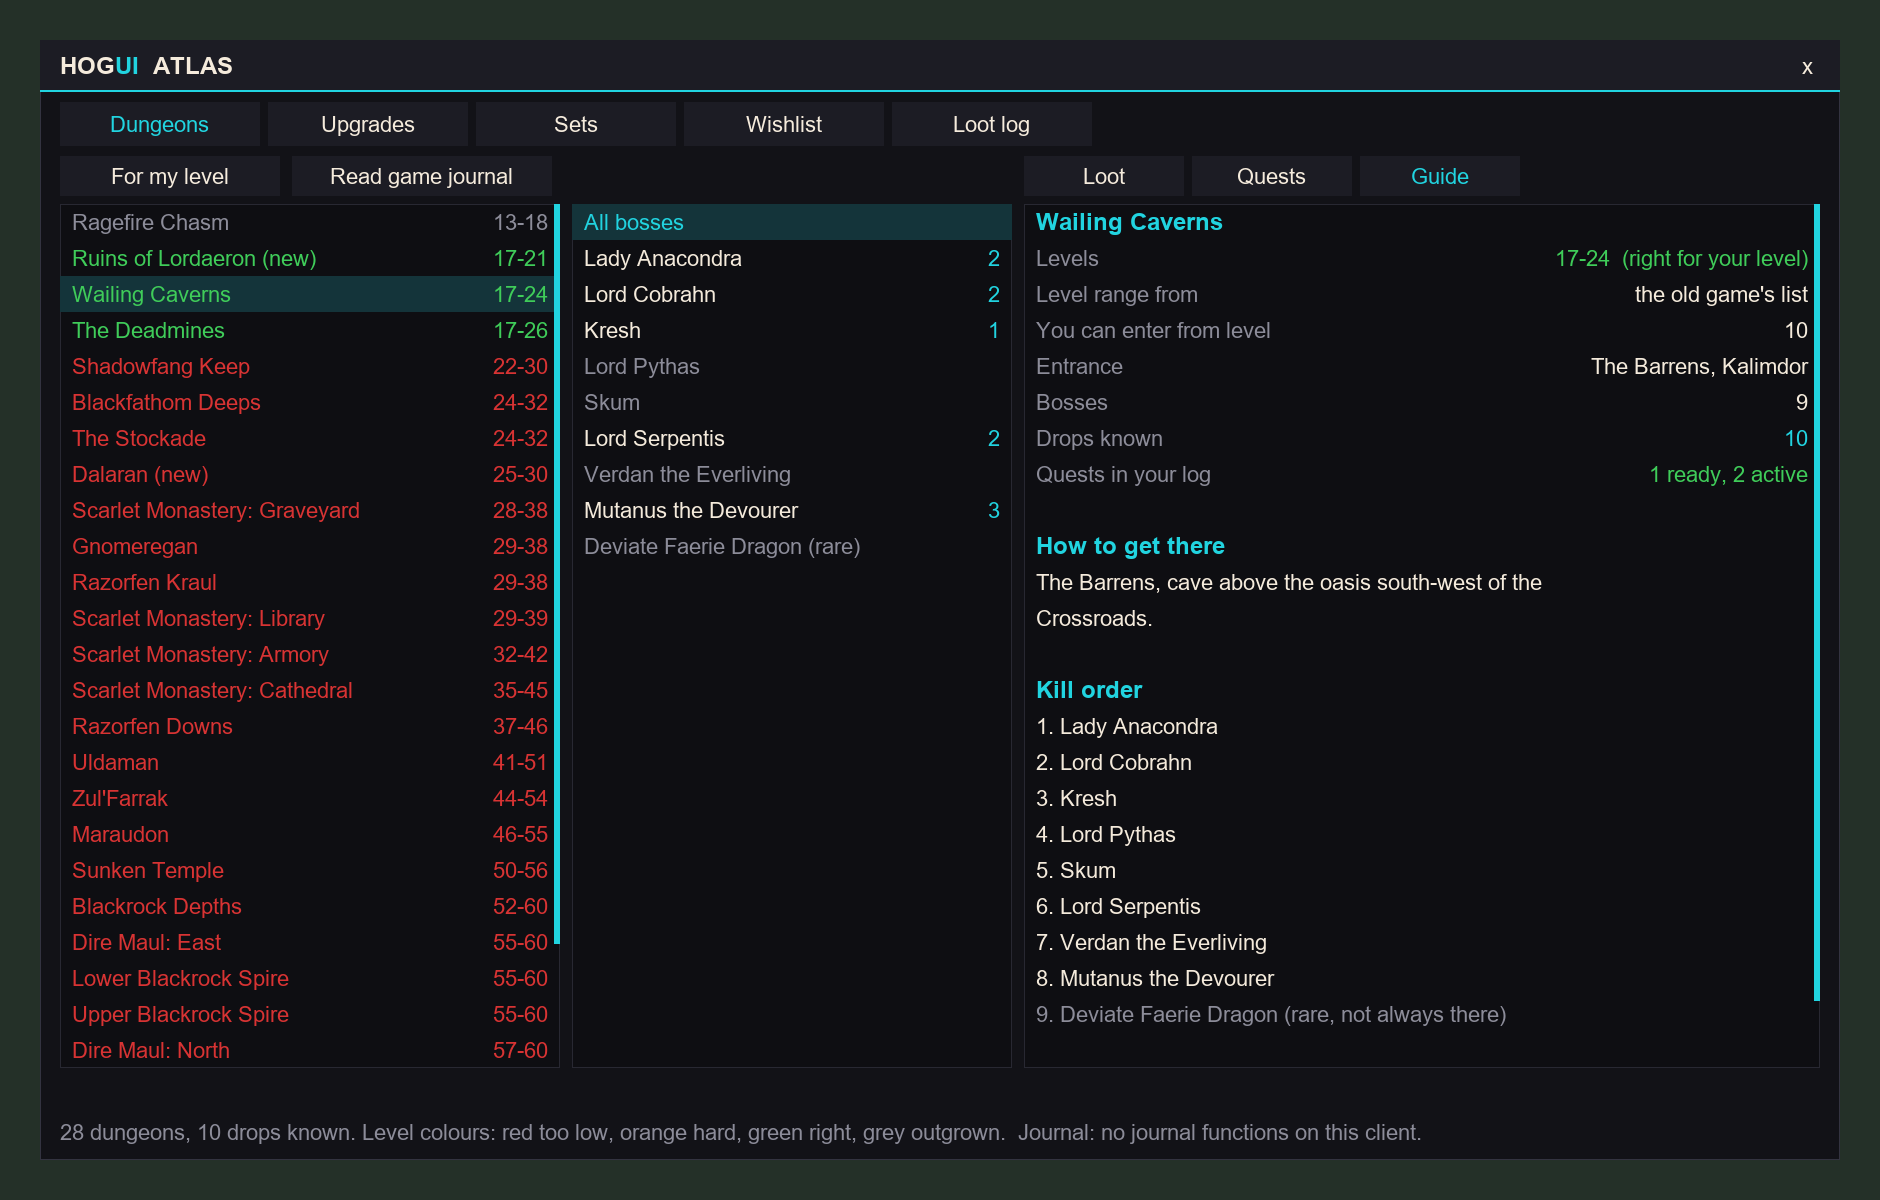
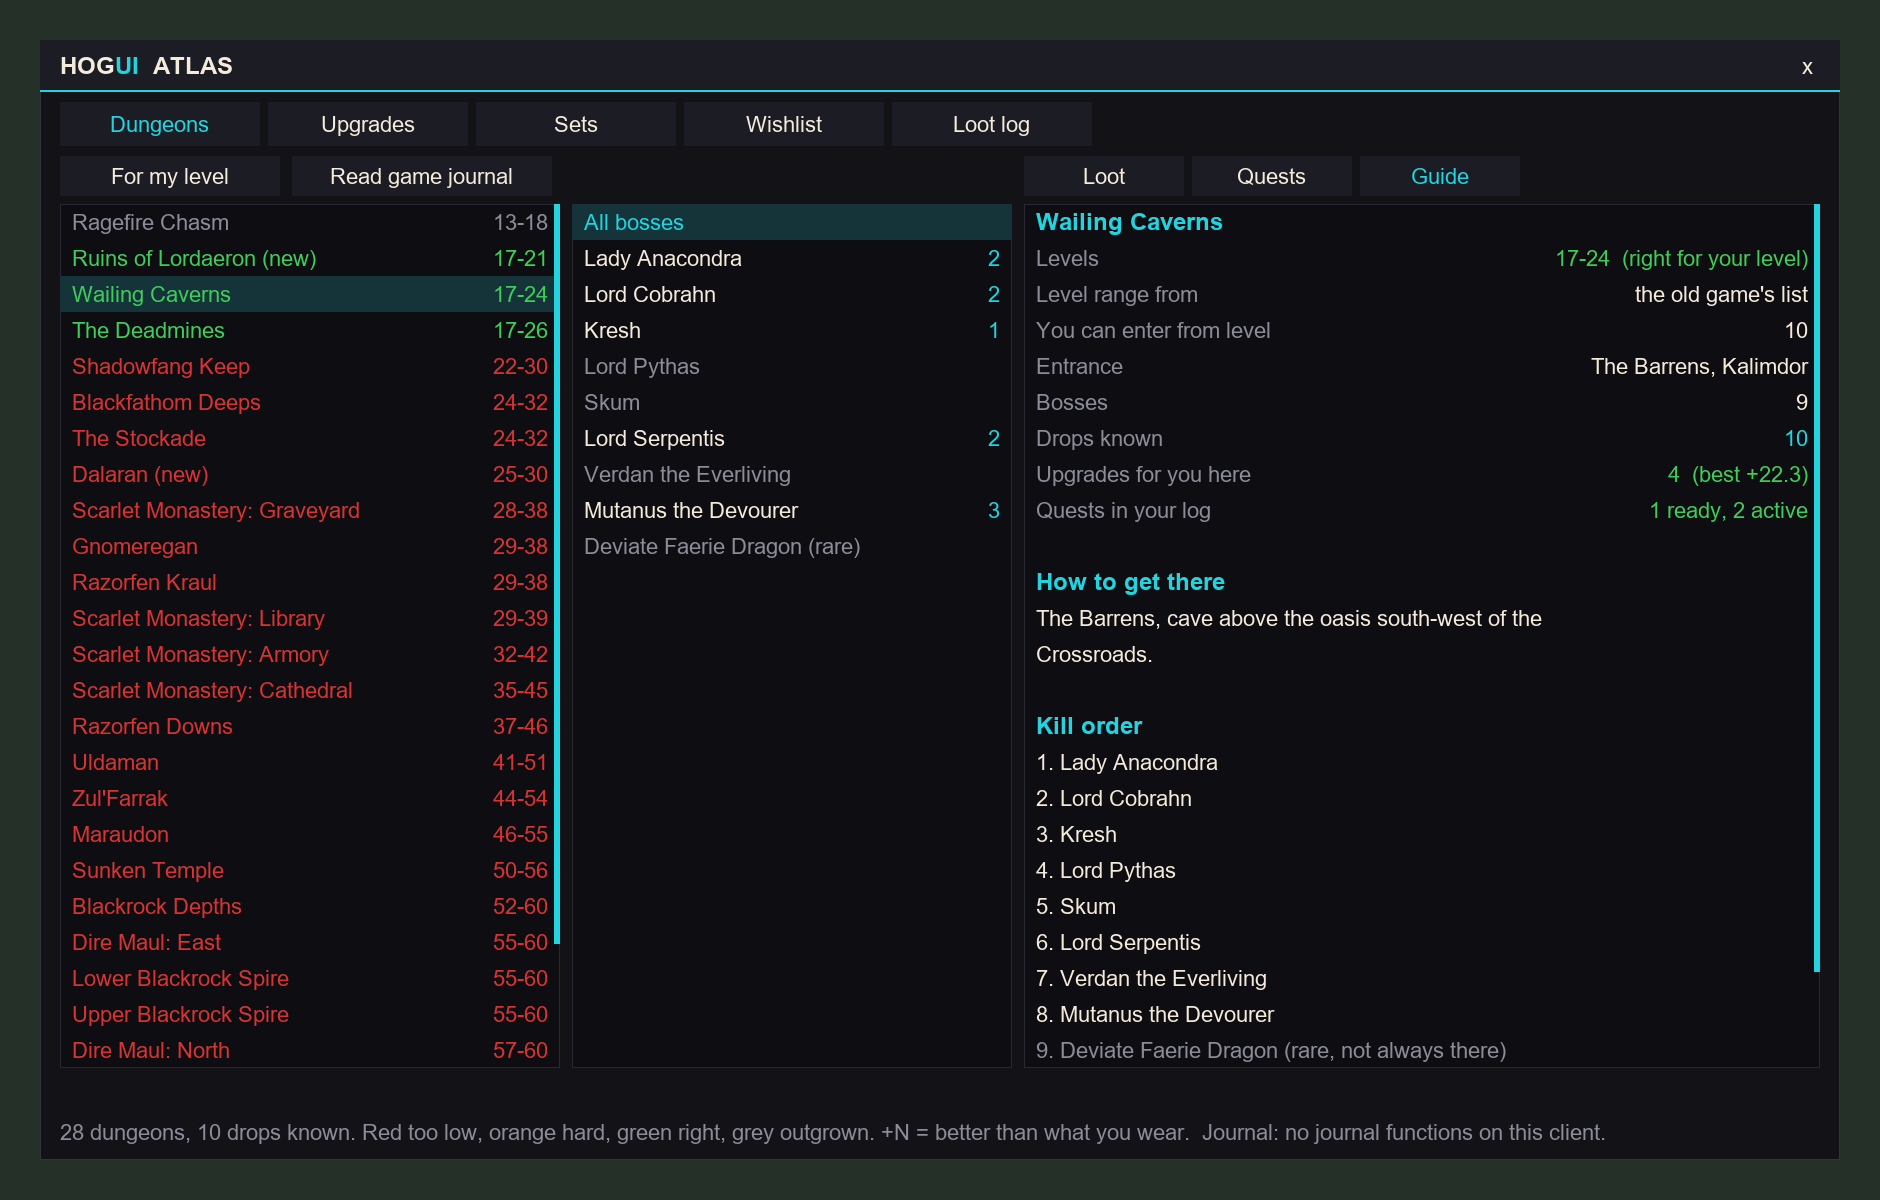
feat(atlas): upgrade markers while browsing a dungeon's loot; quest log read once per repaint, not once per dungeon
- Loot rows carry "+22.3" (green), "+10.8 at 22" (amber) or "worn"; the Guide tab counts the
  upgrades waiting in a dungeon.
- One repaint asked about 28 dungeons and read the whole quest log for each. Now read once,
  kept for a second, dropped on QUEST_LOG_UPDATE.

Changed region(s): [[0.5553, 0.37, 0.833, 0.8942], [0.1851, 0.925, 0.8638, 0.9558], [0.8947, 0.37, 0.9564, 0.4317]]

diff --git a/tests/test_atlas_window.py b/tests/test_atlas_window.py
@@ -391,3 +391,48 @@ def test_item_probe_names_a_secret_link_and_touches_nothing(atlas):
     assert ip["link"] == "SECRET(userdata)" and ip["parsed"] is None
     atlas.execute("function GetInventoryItemLink() return nil end")
     assert atlas.eval(f"{A}.Diag.ItemProbe().slot") == "nothing worn"
+
+
+# ------------------------------------------------------------------------------------------------ browsing with your gear in mind
+def test_loot_rows_mark_what_is_better_than_what_you_wear(atlas):
+    atlas.execute(f"""
+      MockUnits.player.level = 30; WORN[1] = 1002; WORN[11] = 1004
+      for _, id in ipairs({{ 1001, 1003, 1004, 1007, 1002 }}) do {S}.Record("vc", "Cookie", id, "seen") end
+      HogHeals:SlashCommand("atlas"); {W}.dungeon = "vc"; {W}.boss = "Cookie"; {W}.Refresh()
+    """)
+    rows = {r["item"]: r for r in vals(atlas.eval(f"{W}.lists.detail.data"))}
+    assert rows[1001]["mid"] == "+31.9" and list(rows[1001]["midColor"].values()) == pytest.approx([0.25, 0.80, 0.35])
+    assert rows[1007]["mid"] == "+55.7 at 45" and list(rows[1007]["midColor"].values()) == pytest.approx([0.95, 0.65, 0.15])
+    assert rows[1002]["mid"] == "worn" and rows[1004]["mid"] == "worn"
+    assert rows[1003]["mid"] is None                                                # plate: not for a shaman, nothing said
+    assert atlas.eval(f"{W}.lists.detail.rows[1].mid:IsShown()") is True
+    atlas.execute(f"{W}.detailButtons.guide:Click()")
+    guide = {r["text"]: r["right"] for r in vals(atlas.eval(f"{W}.lists.detail.data"))}
+    assert guide["Drops known"] == "5" and guide["Upgrades for you here"] == "1  (best +31.9)"
+    atlas.execute(f'{W}.dungeon = "wc"; {W}.Refresh()')
+    assert "Upgrades for you here" not in [r["text"] for r in vals(atlas.eval(f"{W}.lists.detail.data"))]   # nothing known: no line
+
+
+def test_dungeon_items_lists_each_item_once(atlas):
+    atlas.execute(f"""
+      {A}.Data.Curated.vc = {{ Cookie = {{ 1004, 1001 }} }}
+      {S}.Record("vc", "Cookie", 1001, "seen"); {S}.Record("vc", "Gilnid", 1001, "seen"); {S}.Record("vc", "Gilnid", 1002, "seen")
+    """)
+    assert vals(atlas.eval(f'{S}.DungeonItems("vc")')) == [1001, 1002, 1004]
+    assert vals(atlas.eval(f'{S}.DungeonItems("wc")')) == []
+
+
+def test_the_quest_log_is_read_once_per_repaint_not_once_per_dungeon(lua):
+    boot(lua, quests=True, extra=LOG)
+    lua.execute("HogHealsQuests.Data.List = FakeLog")
+    reads = lambda: lua.eval(f"{DQ}.reads or 0")                                   # Atlas's own reads (HogUI Quests reads too)
+    before = reads()
+    lua.execute('HogHeals:SlashCommand("atlas")')
+    assert lua.eval(f"#{W}.lists.dungeons.data") >= 28
+    assert reads() - before == 1
+    lua.execute(f"{W}.Refresh(); {W}.detailButtons.quests:Click(); {W}.detailButtons.guide:Click()")
+    assert reads() - before == 1                                                    # same moment: still the one read
+    lua.execute(f"MockAdvance(2); {W}.Refresh()")
+    assert reads() - before == 2                                                    # a moment later: read again
+    lua.execute(f'MockFire("QUEST_LOG_UPDATE"); {W}.Refresh()')
+    assert reads() - before == 3                                                    # the log changed: read again at once

diff --git a/dev/render_atlas.py b/dev/render_atlas.py
@@ -218,7 +218,7 @@ class Painter:
             if right:
                 self.text(d, bx[0] + bx[2] - 6, y + rh / 2, right, self.rgb(r["rightColor"], (140, 140, 153)), anchor="rm")
             mid_x = lst["opts"]["midX"]
-            if mid_x and r["mid"] and not r["header"]:
+            if mid_x and r["mid"] is not None and not r["header"]:
                 self.text(d, bx[0] + mid_x, y + rh / 2, r["mid"], self.rgb(r["midColor"], (140, 140, 153)),
                           max_w=bx[2] - mid_x - rw - 16)
         if not data and lst["emptyText"]:
